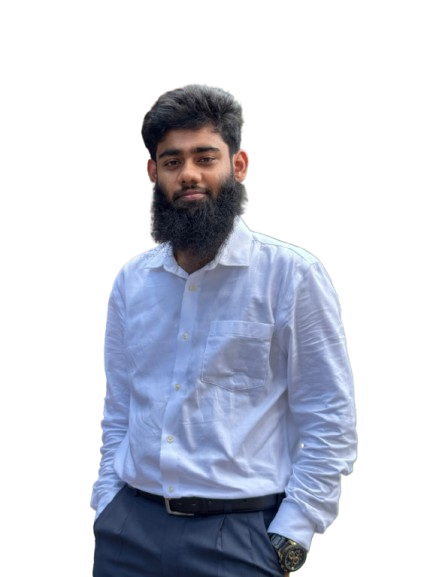
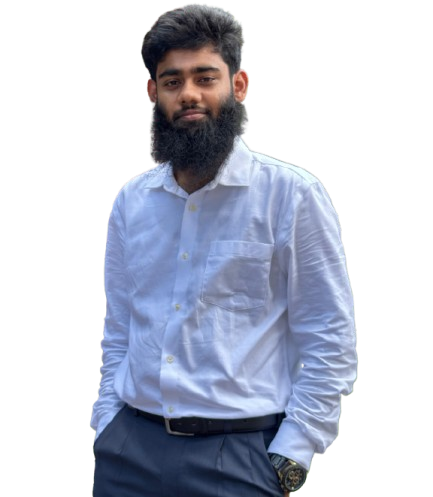
header

Changed region(s): [[0.2102, 0.0, 0.8406, 0.996], [0.3002, 0.9356, 0.3603, 0.9658]]

diff --git a/index.html b/index.html
@@ -10,7 +10,7 @@
 <link href="https://fonts.googleapis.com/css2?family=Open+Sans:ital,wght@0,300..800;1,300..800&display=swap" rel="stylesheet">
 </head>
 <body class="open-sans-normal">
-    <header class="secondary-bg">
+    <header class=" header secondary-bg">
         <nav>
             <h3 class="nav-title">Sh<span class="text-primary">a</span>hri<span class="text-primary">a</span>r</h3>
             <ul>
@@ -21,13 +21,13 @@
         </nav>
         <div class="banner">
             <div class="banner-content">
-                <h4 class="banner-greetings">Hi, I am</h4>
-                <h1>Atik Shahriar Suvo</h1>
+                <h4 class="banner-greetings dark-2 ">Hi, I am</h4>
+                <h1 class="banner-title">Atik Shahriar</h1>
                 <p class="banner-description">i am currently working as a junior web developer. I want to study hard abour the website and wanna go deep so that i can know more and make better websites and as well as responsive and interactive day by day.</p>
-                <button class="btn-primary">Download CV</button>
+                    <button class="btn-primary">Download CV</button>
                 <button class="btn-primary">contact</button>
             </div>
-            <img src="./images/myPicture.png" alt="">
+            <img class="banner-profile-picture" src="./images/myPicture.png" alt="">
         </div>
     </header>
     <main>

diff --git a/styles/portfolio.css b/styles/portfolio.css
@@ -38,6 +38,12 @@
     font-weight: normal;
     color: #757575;
 }
+/* header */
+.header{
+    background-image: url(../images/developer.png),url(../images/header_bg.png);
+    background-repeat: no-repeat;
+    background-position: top left, bottom right;
+}
 
 /* Nav styles */
 nav{
@@ -67,9 +73,25 @@ nav li{
 }
 
 /* banner styles */
+.banner{
+    display: flex;
+    justify-content: space-between;
+    margin: 0 35px 0 200px;
+}
+.banner-content{
+    max-width: 580px;
+}
 .banner-greetings{
     font-size: 45px;
     font-weight: 600;
+}
+.banner-title{
+    font-size: 85px;
+    font-weight: bold;
+
+}
+.banner-profile-picture{
+    width: 580px;
 }
 main{
     max-width: 1140px;
